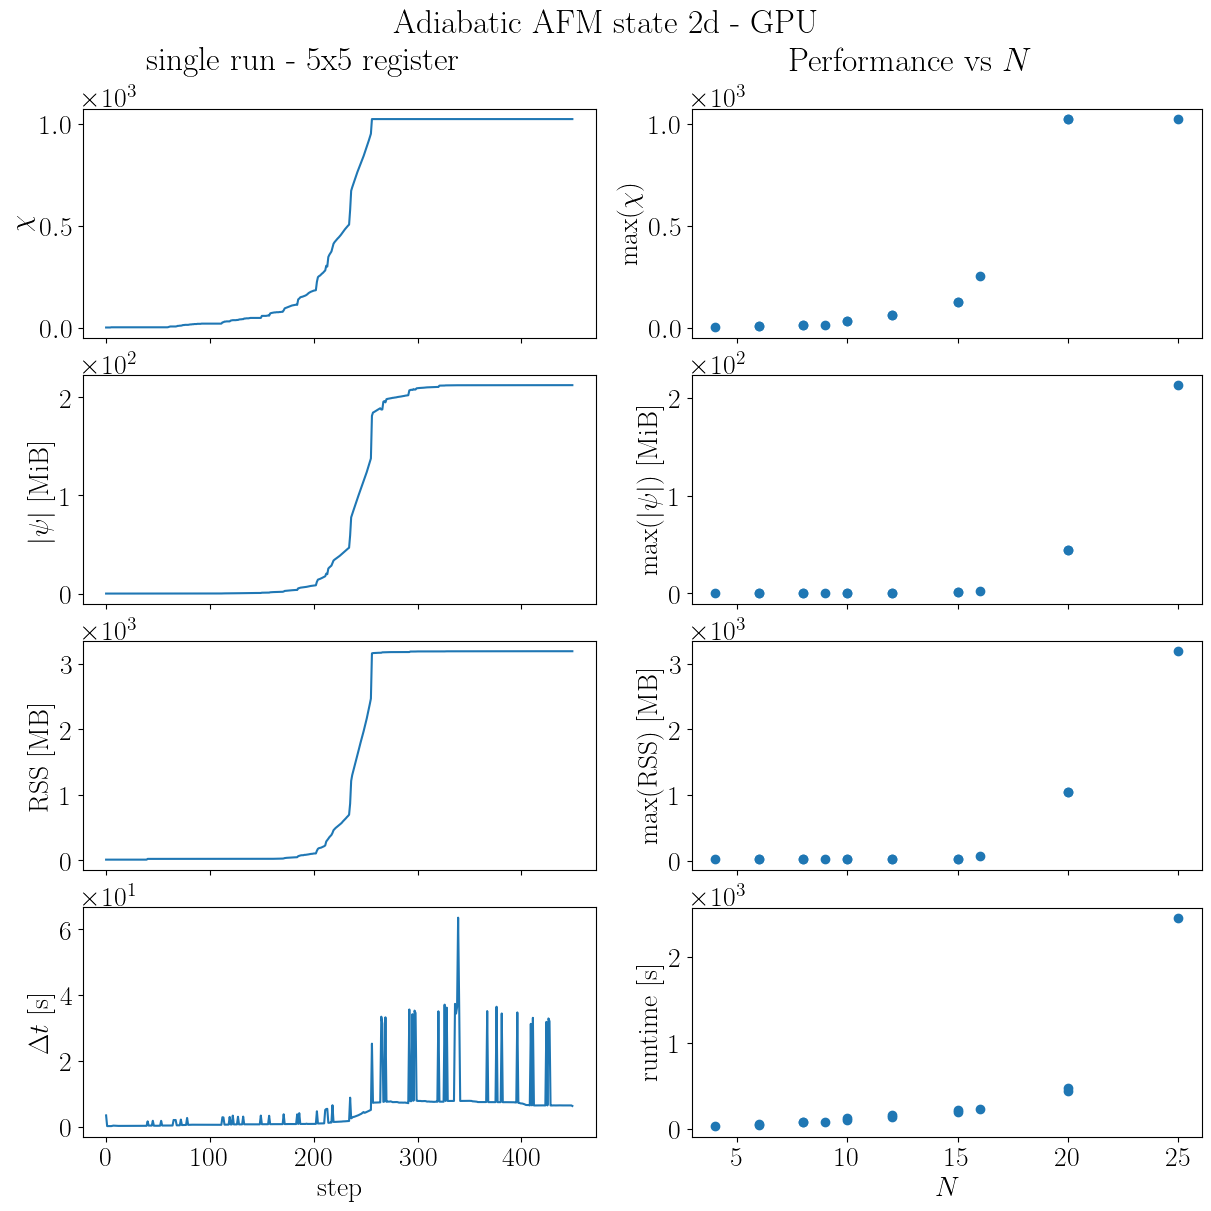
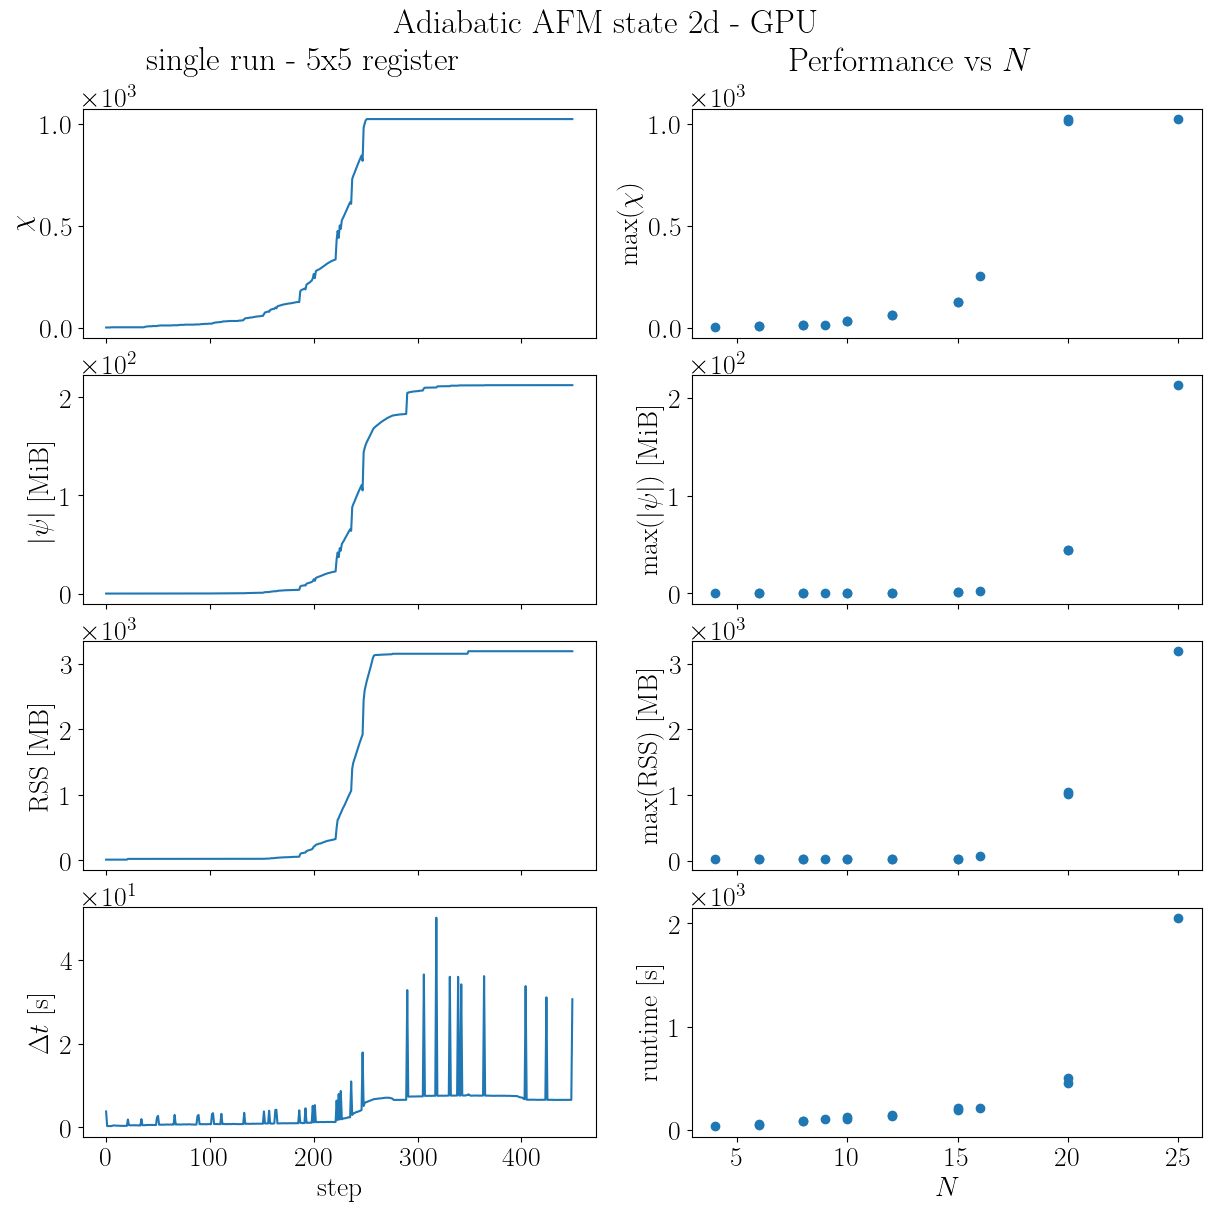
review comments

diff --git a/docs/emu_mps/advanced/resource_estimation.md b/docs/emu_mps/advanced/resource_estimation.md
@@ -62,7 +62,7 @@ where $k$ is the value of `max_krylov_dim`. Recall that the default value of $k=
 
 ### Contribution from temporary tensors
 
-Finally, to compute the above Krylov vectors, the effective two-site Hamiltonian has to be applied to the previous Krylov vector to obtain the next one. The resulting tensor network contraction cannot be done in-place, so it has to store two intermediate results that get very large. Additionally, it has to store a reordered copy of one of the two bath tensors due to constraints on the matmul implementation in torch. The intermediate results take the most memory at the center qubit, where the bond dimension of the Hamiltonian becomes $h$. At this point,
+Finally, to compute the above Krylov vectors, the effective two-site Hamiltonian has to be applied to the previous Krylov vector to obtain the next one. The resulting tensor network contraction cannot be done in-place, so it has to store two intermediate results that get very large. Additionally, the contraction requires storage of a permuted copy of one the two bath tensors. The intermediate results take the most memory at the center qubit, where the bond dimension of the Hamiltonian becomes $h$. At this point,
 
 $$
 |\mathrm{intermediate}| = s\chi^2 (2hp^2+h) = h\chi^2(144)
@@ -90,7 +90,7 @@ Note that these estimates are __pessimistic__, since not all $k$ Krylov vectors 
 
 Both TDVP and DMRG rely on the same bath construction and effective Hamiltonian machinery, so their memory requirements are expected to scale similarly with $N$ and $\chi$.
 
-To test the accuracy of the above memory estimations, we benchmarked the __TDVP__ algorithm by fixing the bond dimension to a particular desired value. We will run the benchmark on GPU, and consider the memory burden on the GPU.
+To test the accuracy of the above memory estimations, we benchmarked the __TDVP__ algorithm by fixing the bond dimension to a particular desired value. We ran the benchmark on GPU, and consider the memory burden on the GPU.
 
 For different combinations of the number of atoms in a register $N$ and the fixed bond dimension $\chi$, we collect the maximum resident set size, or RSS,  on the GPU, which is expected to capture the maximum memory needed to run the emulation. We plot the RSS in the following picture (left), as a function of the number of qubits and for different bond dimensions. Notice that, once the RSS is normalized by $\chi^2$, as suggested by our estimate above, all the points fall into the same functional dependency on the number of atoms. Moreover, as we plot the normalized function $m(N,\chi,k)/\chi^2$, for a reasonable estimate of the size of the Krylov subspace ($k=10$), it is clear that our upper bound on memory occupation can be reasonably trusted on a wide range of system sizes and bond dimensions.
 

diff --git a/docs/emu_mps/benchmarks/index.md b/docs/emu_mps/benchmarks/index.md
@@ -21,7 +21,7 @@ These quantities are represented, in the following plots:
 
 The RSS plot (left) shows the peak device-dependent memory cost of the emulation.
 It is expected to stay constant at fixed bond dimension and thus represent the total memory occupation of the emulation of a sequence.
-As evident, the emulator is mostly limited by the available memory (40 GB on NVIDIA A100), as it restricts the maximum number of qubits/bond dimension pair allowed. Note that in adition to this device dependent contribution, there is always a contribution in RAM coming from the [bath tensors](../advanced/resource_estimation.md#contribution-from-the-baths). When the simulation is run on CPU, the two contributions add, when running on GPU, the graph can be used to determine what system size can fit on the GPU, and the formula for the bath contribution can be used to determine how much RAM to allocate for the work (assuming access to computing resources where RAM is abundant).
+As evident, the emulator is mostly limited by the available memory (40 GB on NVIDIA A100), as it restricts the maximum number of qubits/bond dimension pair allowed. Note that in addition to this device-dependent contribution, there is always a contribution in RAM coming from the [bath tensors](../advanced/resource_estimation.md#contribution-from-the-baths). When the simulation is run on CPU, the two contributions add. When running on GPU, the graph can be used to determine what system size can fit on the GPU, and the formula for the bath contribution can be used to determine how much RAM to allocate for the work (assuming access to computing resources where RAM is abundant).
 To get the total estimated runtime instead, one should simply multiply the time estimate in the timing plot (right) by the number of steps in the emulated sequence.
 Finally, given the technical nature of these estimates, they rely on some previous knowledge about [matrix product states](../advanced/mps/index.md) and the [TDVP](../advanced/algorithms.md) algorithm. We encourage anyone who might be interested into the derivation, to have a look at the [resource estimation](../advanced/resource_estimation.md) page in advanced topic section of this documentation.
 

diff --git a/docs/emu_mps/index.md b/docs/emu_mps/index.md
@@ -47,8 +47,7 @@ The following features are currently supported:
 The workflow in emu-mps is not typical of machine learning workloads, and as a consequence certain default behaviours of torch are not optimal. Specifically
 
 - In emu-mps tensor sizes tend to be very unpredictable, in contrast to typical machine learning models. The default torch behaviour of caching GPU memory allocations in deterministic block sizes must be overridden to avoid memory fragmentation that reduces the effectively available memory on the GPU.
-- In emu-mps, we use page-locked RAM for asynchronously tranferring tensors from RAM to GPU. Since the tensor sizes are unpredictable, the default torch caching behaviour of allocating memory in powers of 2 works poorly. It is not needed for performance, and it causes the application to use
-on average 1.5 times more RAM than needed. The host allocator cache should be disabled. This is only possible in torch 2.13 and newer.
+- In emu-mps, we use page-locked RAM for asynchronously transferring tensors from RAM to GPU. Since the tensor sizes are unpredictable, the default torch caching behaviour of allocating memory in powers of 2 works poorly. It is not needed for performance, and it causes the application to use on average 1.5 times more RAM than needed. The host allocator cache should be disabled. This is only possible in torch 2.13 and newer.
 
 Both these things can be configured via an environment variable that should be set before running your python script. Concretely, define the following for optimal memory usage:
 
